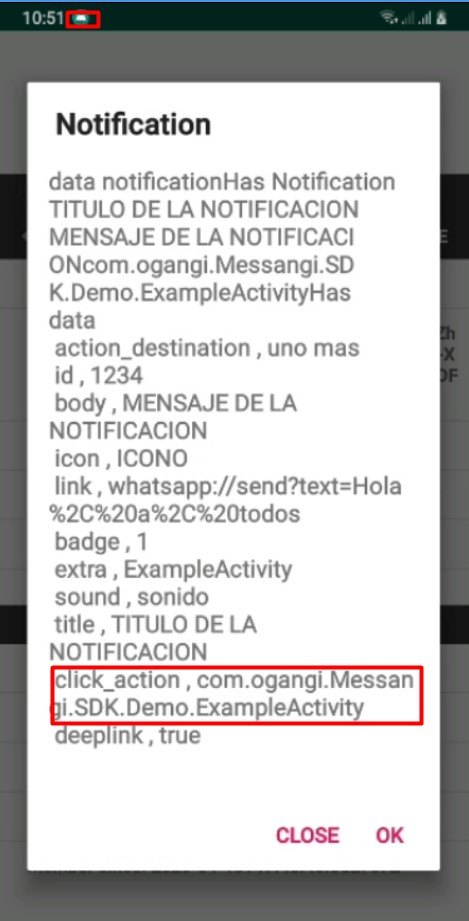
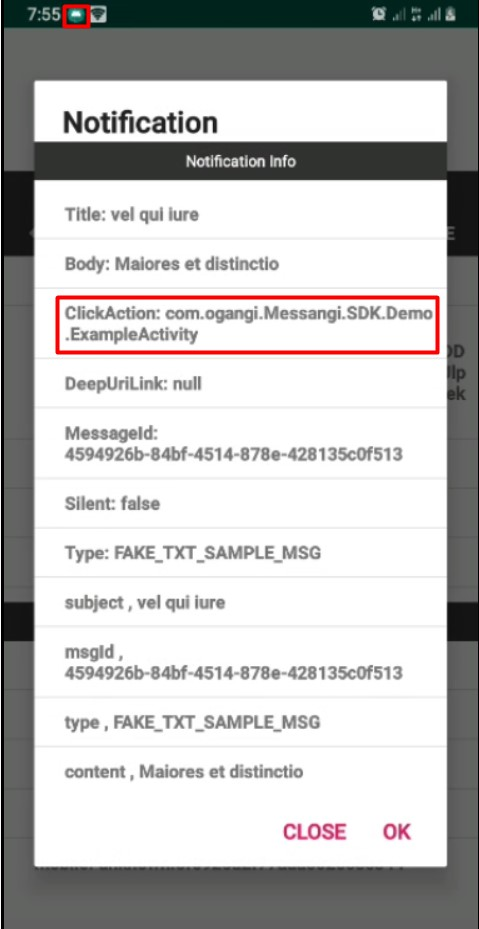
complete documentation file :rocket:

Changed region(s): [[0.0, 0.0, 1.0, 1.0]]

diff --git a/README.md b/README.md
@@ -19,7 +19,7 @@ It is a tool that allows you to add the following functionalities to your soluti
 ---
 To use the Messangi SDK is required:
 - A registered apple account in the development program.
-- Follow the n steps for installation.
+- Follow the next steps for installation.
 
 ## Installation
 ----
@@ -29,6 +29,15 @@ Open Android Studio IDE and start new project you are working on.
 Place the "MessagiSDK" dependency in app.gradle
 ```Gradle 
 implementation 'com.android.testdefsdknotificactionpush:sdk:1.0'
+```
+or
+The SDK folder can only be obtained from this repo, put folder new project project directory and put this line in app.gradle:
+```Gradle 
+ implementation project(path: ':sdk')
+```
+and in settings.gradle:
+```Gradle 
+ include ':app', ':sdk'
 ```
 ### 2) Configure FCM in Android Project Project
 Select your project and go to the **Tools** tab, select a Firebase and open the assistant then:
@@ -178,7 +187,7 @@ public class MessagingNotificationReceiver extends BroadcastReceiver{
     }
     
 ```
-It is important to use,  please declare BroadcastReceiver in Manifest.xml of app project, example:
+Please declare BroadcastReceiver in Manifest.xml of app project, example:
 
 ```xml
 <?xml version="1.0" encoding="utf-8"?>
@@ -604,12 +613,12 @@ public class CustomMessangiService extends MessagingFirebaseService {
 ```
 
 ## To use DeepLink:
-1.	By Payload:
+1.	**By Payload:**
 For this, the property "click_action" sent through the push notification will be used, which has two cases:
 
-a.	Notification in foreground: this case the notification will be handled by the SDK taking the property "click_action" of the notification which should have a value as shown in the example: "click_action": "com.ogangi.Messangi.SDK. Demo.ExampleActivity ", which is processed by the SDK creating an icon in the notification tray that when clicked opens the activity selected or described in the action.
+a.	**Notification in foreground:** In this case the notification will be handled by the SDK taking the property **"click_action"** of the notification which should have a value as shown in the example: **"click_action": "com.ogangi.Messangi.SDK.Demo.ExampleActivity"**, the which is processed by the SDK allowing the host app to create an icon in the notification tray that when pressed opens the activity selected or described in the action.
 
-b.	Background notification: in this case the notification will be handled by the operating system as native behavior, where the app programmer must declare the activity to open when pressing this notification, it is important to remember that the notification must bring the field " click_action ":" com.ogangi.Messangi.SDK.Demo.ExampleActivity ", for example, and the declaration of the activity by the programmer must be done in the AndroidManifest.xml file, for example:
+b.	**Background notification:** in this case the notification will be handled by the operating system as native behavior, where the app programmer must declare the activity to open when pressing this notification, it is important to remember that the notification must bring the field **" click_action ":" com.ogangi.Messangi.SDK.Demo.ExampleActivity "**, for example, and the declaration of the activity by the programmer must be done in the **AndroidManifest.xml** file, for example:
 ```xml
         <activity android: name = ". ExampleActivity">
              <intent-filter>
@@ -621,11 +630,12 @@ b.	Background notification: in this case the notification will be handled by the
 In MainActivity of the demo app.
 In foreground and notification is sent.
 
-<img src="step3.jpg" />
+<img src="step3a.jpg" />
 
 Arrival of the NP to the app that shows the detail of the same and in the upper part shows the generation of the Notification thanks to the Click-Action parameter that comes in it.
 
 The alert is ok and the notification palette opens:
+
 <img src="step3b.jpg" />
 
 Pressing the notification opens the preselected activity and displays the notification data using the following structure:
@@ -669,7 +679,7 @@ The notification palette opens and you press:
 
 <img src="step4.jpg" />
 
-This action was performed using the native behavior of the SO. But it is important that the notification has the field: "click_action": "com.ogangi.Messangi.SDK.Demo.ExampleActivity" 
+This action was performed using the native behavior of the SO. But it is important that the notification has the field: **"click_action": "com.ogangi.Messangi.SDK.Demo.ExampleActivity"** 
 Defined in this way.
 And the data can also be processed using:
 ```Java
@@ -701,6 +711,126 @@ Bundle extras=getIntent().getExtras();
         }
 ```
 
+The implementation of this functionality in the demo app of this repository, in the main activity you have an **example code**.
+
+
+2.	**By url schemes:**
+For this, the property **"link"** sent through the push notification will be used, which has two cases:
+
+a.	**Notification in foreground:** In this case the notification will be handled by the SDK taking the property "link" of the notification which should have a value as shown in the example:
+**"link": exampleapp: // example / example? param1 = 1**, which is processed by the SDK allowing the host app to launch a navigation attempt with said Url, which if it is registered in an activity (in the file **AndroidManifest.xml**), the app will directly open that activity and handle the information sent in the notification.
+
+b.	**Background notification:** in this case the notification will be handled by the operating system as native behavior, where the app programmer must declare the activity to open when pressing this notification, it is important to remember that the notification must bring the field **"link": exampleapp://example/example?param1=1**, for example, and the declaration of the activity by the programmer must be done in the **AndroidManifest.xml** file, for example:
+
+```xml
+        <activity android:name=".ExampleURLSchemasActivity">
+            <intent-filter>
+                <action android:name="android.intent.action.VIEW" />
+                <category android:name="android.intent.category.DEFAULT" />
+                <category android:name="android.intent.category.BROWSABLE" />
+                <data
+                    android:host="example"
+                    android:pathPrefix="/example"
+                    android:scheme="exampleapp" />
+            </intent-filter>
+        </activity>
+```
+c. **From a web browser:** in this case the flow will be managed by the operating system as native behavior, where the app programmer must declare the activity to open when pressing this DeepLink Url schemas.
+
+<img src="step5.jpg" />
+
+And the data can also be processed using:
+in ExampleURLSchemasActivity.java
+```Java
+Bundle extras=getIntent().getExtras();
+        boolean enable=extras.getBoolean("enable",false);
+        additionalData = new HashMap<>();
+        if(extras!=null && !enable) {
+            for (String key : extras.keySet()) {
+               additionalData.put(key, extras.getString(key));
+                messangiData.add(key + " , " + extras.getString(key));
+            }
+            .....
+        }else{
+            Serializable data = extras.getSerializable(Messaging.INTENT_EXTRA_DATA);
+            messagingNotification=(MessagingNotification)data;
+            additionalData=messagingNotification.getAdditionalData();
+            if(additionalData!=null&& additionalData.size()>0) {
+                messangiData.add("Title: " + messagingNotification.getTitle());
+                messangiData.add("Body: " + messagingNotification.getBody());
+                messangiData.add("ClickAction: " + messagingNotification.getClickAction());
+                messangiData.add("DeepUriLink: " + messagingNotification.getDeepUriLink());
+                for (Map.Entry entry : messagingNotification.getAdditionalData().entrySet()) {
+                    if (!entry.getKey().equals("profile")) {
+                        messangiData.add(entry.getKey() + " , " + entry.getValue());
+                    }
+
+                }
+            }
+        }
+```
+
+The implementation of this functionality in the demo app of this repository, in the main activity you have an **example code**.
+
+
+3.	**By universal links:**
+For this, the property **"link"** sent through the push notification will be used, which has two cases:
+
+a.	**Notification in foreground:** In this case the notification will be handled by the SDK taking the property "link" of the notification which should have a value as shown in the example:
+**"link":http://www.plantplaces.com/colorcapture.shtml?param1=value1&param2=value2**, which is processed by the SDK allowing the host app to launch a navigation attempt with said Url, which if it is registered in an activity (in the file **AndroidManifest.xml**), the app will directly open that activity and handle the information sent in the notification.
+
+b.	**Background notification:** in this case the notification will be handled by the operating system as native behavior, where the app programmer must declare the activity to open when pressing this notification, it is important to remember that the notification must bring the field **"link": http://www.plantplaces.com/colorcapture.shtml?param1=value1&param2=value2**, for example, and the declaration of the activity by the programmer must be done in the **AndroidManifest.xml** file, for example:
+
+```xml
+        <activity android:name=".ExampleUrlActivity">
+            <intent-filter>
+                <action android:name="android.intent.action.VIEW" />
+                <category android:name="android.intent.category.DEFAULT" />
+                <category android:name="android.intent.category.BROWSABLE" />
+                <data
+                    android:host="www.plantplaces.com"
+                    android:pathPrefix="/colorcapture.shtml"
+                    android:scheme="http" />
+            </intent-filter>
+        </activity>
+
+```
+c. **From a web browser:** in this case the flow will be managed by the operating system as native behavior, where the app programmer must declare the activity to open when pressing this DeepLink Url schemas.
+
+<img src="step8.jpg" />
+
+And the data can also be processed using:
+in ExampleUrlActivity.java
+```Java
+Bundle extras=getIntent().getExtras();
+        boolean enable=extras.getBoolean("enable",false);
+        additionalData = new HashMap<>();
+        if(extras!=null && !enable) {
+            for (String key : extras.keySet()) {
+               additionalData.put(key, extras.getString(key));
+                messangiData.add(key + " , " + extras.getString(key));
+            }
+            .....
+        }else{
+            Serializable data = extras.getSerializable(Messaging.INTENT_EXTRA_DATA);
+            messagingNotification=(MessagingNotification)data;
+            additionalData=messagingNotification.getAdditionalData();
+            if(additionalData!=null&& additionalData.size()>0) {
+                messangiData.add("Title: " + messagingNotification.getTitle());
+                messangiData.add("Body: " + messagingNotification.getBody());
+                messangiData.add("ClickAction: " + messagingNotification.getClickAction());
+                messangiData.add("DeepUriLink: " + messagingNotification.getDeepUriLink());
+                for (Map.Entry entry : messagingNotification.getAdditionalData().entrySet()) {
+                    if (!entry.getKey().equals("profile")) {
+                        messangiData.add(entry.getKey() + " , " + entry.getValue());
+                    }
+
+                }
+            }
+        }
+```
+
+The implementation of this functionality in the demo app of this repository, in the main activity you have an **example code**.
 
 
 ## Author
